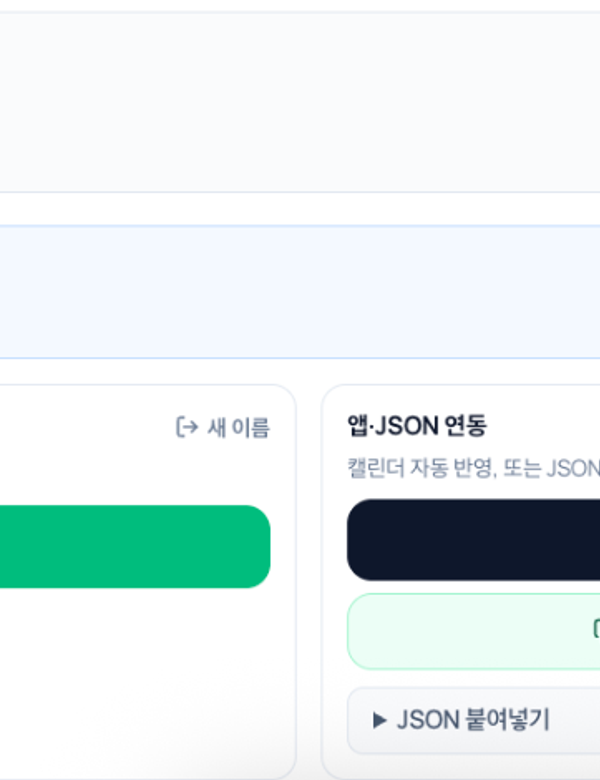
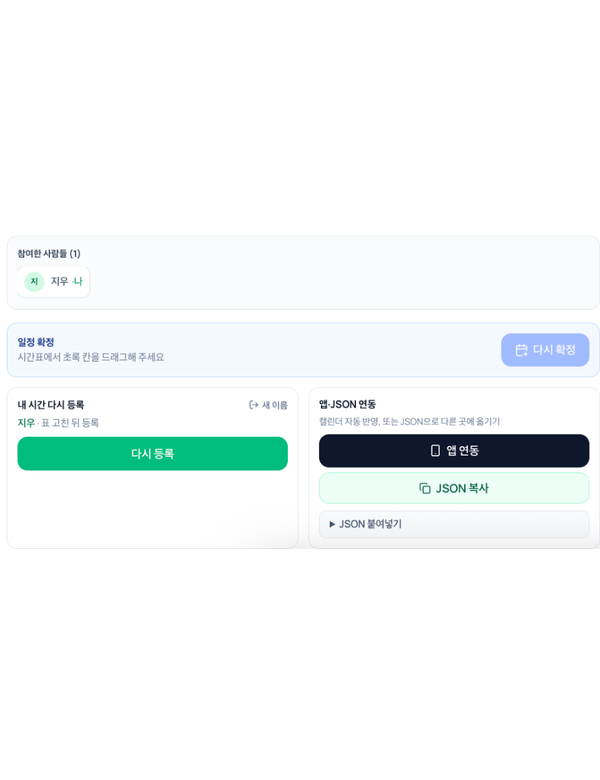
Fit JSON share screenshot to card width with letterboxing.

diff --git a/public/pitch.html b/public/pitch.html
@@ -578,8 +578,13 @@
         object-fit: cover;
         object-position: top center;
         width: 100%;
-        background: #f8fafc;
+        background: #fff;
         display: block;
+      }
+      .proto-card .shot.shot-fit-x {
+        object-fit: contain;
+        object-position: center;
+        background: #fff;
       }
       .proto-card .cap {
         padding: 8px 10px;
@@ -2157,7 +2162,7 @@
             <div class="proto-card">
               <div class="ph"><span class="badge">03</span><b>추천 &amp; JSON 공유</b></div>
               <img
-                class="shot"
+                class="shot shot-fit-x"
                 src="/pitch-shots/proto-03-json.png"
                 alt="공통 시간표와 JSON 복사·붙여넣기"
               />
